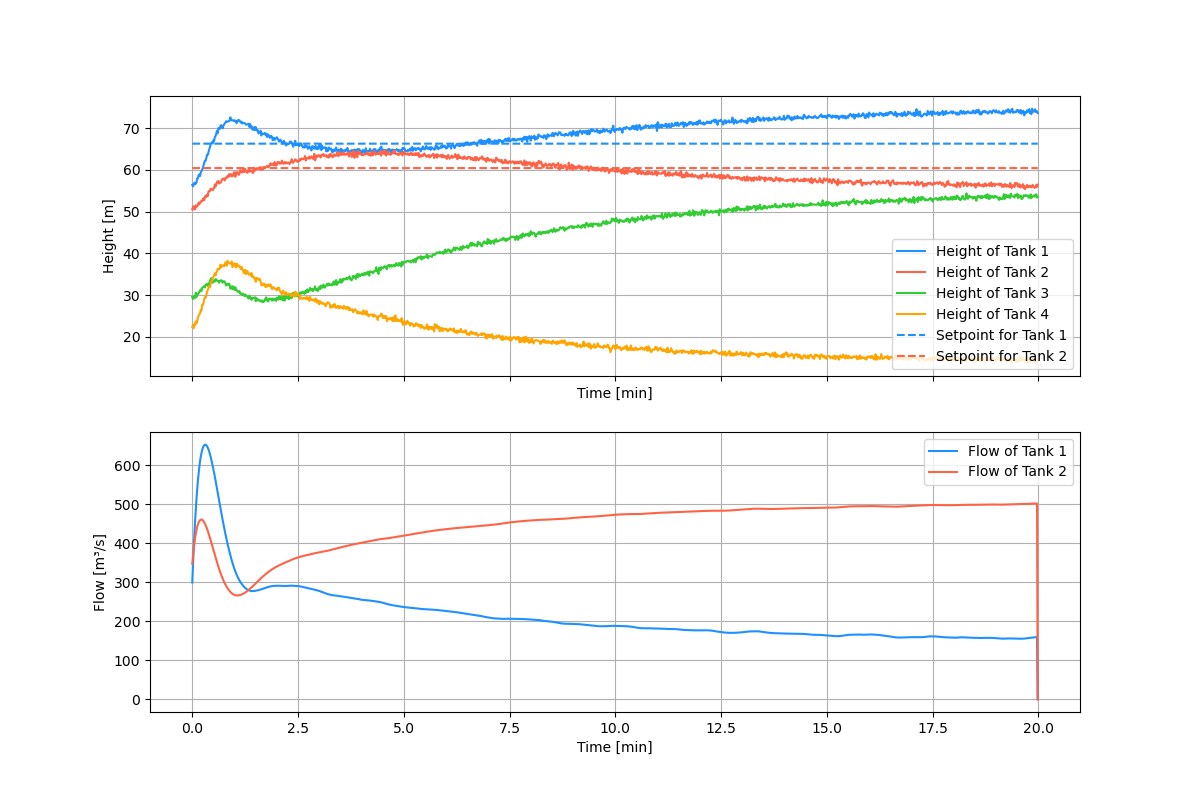
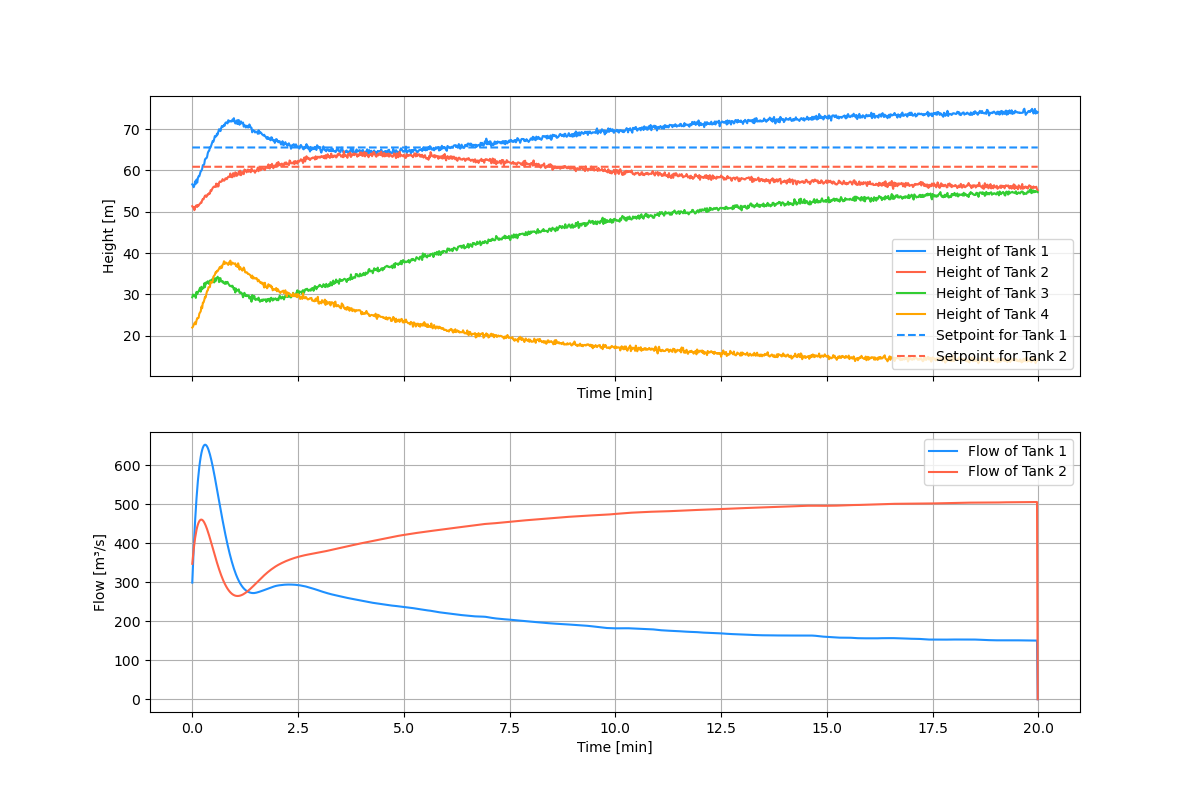
Small update P8-10
Ive don't really know what Ive updated to be honest

diff --git a/Problem_10_5.py b/Problem_10_5.py
@@ -48,19 +48,13 @@ if __name__ == "__main__":
     x0 = np.concatenate((x0, ds))
     xs = Model_Stochastic.GetSteadyState(x0, us)
     data_prob5 = np.load(r"Results\Problem5\Problem_5_estimates.npz")
-    Q = data_prob5["Q"]
+    Q = np.block([
+        [data_prob5["Q"], np.zeros((6, 2))],
+        [np.zeros((2, 6)), 0.01*np.eye(2)]
+    ])
 
     data = data_prob5
     Ad, Bd, Ed, C, Cz = Model_Stochastic.LinearizeDiscreteTime(xs, ds, delta_t)
-    print(Ad.shape)
-    print(Bd.shape)
-    print(Cz.shape)
-    
-
-    A = Ad[:-2, :-2]
-    B = Bd[:-2, :]
-    Cz = Cz[:, :-2]
-    E = Ad[:-2, -2:]
 
     u_op = np.array([250, 325])  # Operating point inputs
 
@@ -105,11 +99,11 @@ if __name__ == "__main__":
         hs=hs,
         U_bar=U_bar,
         R_bar=R_bar,
-        A=A, 
-        B=B, 
+        A=Ad, 
+        B=Bd, 
         C=Cz, 
         Q=Q,
-        E=E,
+        E=Ed,
         R=R[:2,:2],
         problem=problem, 
         Wz=Wz,
@@ -172,22 +166,22 @@ if __name__ == "__main__":
     
     axes[0].plot(t/60, x[0, :], label='Actual Tank 1', color='dodgerblue')
     axes[0].plot(t/60, x[1, :], label='Actual Tank 2', color='tomato')
-    
+
     axes[0].legend()
     axes[0].set_ylabel('mass [kg]')
     axes[0].grid(True)
     axes[0].set_title('System states')
-    
+
     axes[1].plot(t/60, predicted_y_mpc[:, 0] + hs[0], label='Predicted Output Tank 1', color='dodgerblue', ls='-.' )
     axes[1].plot(t/60, predicted_y_mpc[:, 1] + hs[1], label='Predicted Output Tank 2', color='tomato', ls='-.' )
-    
+
 
     axes[1].fill_between(t/60, predicted_y_mpc[:, 0] + hs[0] - 2*np.sqrt(predicted_Py[:, 0, 0]), predicted_y_mpc[:, 0] + hs[0] + 2*np.sqrt(predicted_Py[:, 0, 0]), color='dodgerblue', alpha=0.2)
     axes[1].fill_between(t/60, predicted_y_mpc[:, 1] + hs[1] - 2*np.sqrt(predicted_Py[:, 1, 1]), predicted_y_mpc[:, 1] + hs[1] + 2*np.sqrt(predicted_Py[:, 1, 1]), color='tomato', alpha=0.2)
-    
+
     axes[1].plot(t/60, h[0, :], label='Actual Tank 1', color='dodgerblue')
     axes[1].plot(t/60, h[1, :], label='Actual Tank 2', color='tomato')
-    
+
     axes[1].legend()
     axes[1].grid(True)
     axes[1].set_title('Height of the tanks')

diff --git a/Problem_8_5.py b/Problem_8_5.py
@@ -31,20 +31,13 @@ if __name__ == "__main__":
     x0 = np.concatenate((x0, ds))
     xs = Model_Stochastic.GetSteadyState(x0, us)
     data_prob5 = np.load(r"Results\Problem5\Problem_5_estimates.npz")
-    Q = data_prob5["Q"]
-    
+    Q = np.block([
+        [data_prob5["Q"], np.zeros((6, 2))],
+        [np.zeros((2, 6)), 0.01*np.eye(2)]
+    ])
 
     data = data_prob5
     Ad, Bd, Ed, C, Cz = Model_Stochastic.LinearizeDiscreteTime(xs, ds, delta_t)
-    print(Ad.shape)
-    print(Bd.shape)
-    print(Cz.shape)
-    
-
-    A = Ad[:-2, :-2]
-    B = Bd[:-2, :]
-    Cz = Cz[:, :-2]
-    E = Ad[:-2, -2:]
     
     good_goal = np.array([111.05, 100.0])  # Height of Tank 1 and 2
 
@@ -70,15 +63,15 @@ if __name__ == "__main__":
         hs=hs,
         U_bar=U_bar,
         R_bar=R_bar,
-        A=A,
-        B=B,
+        A=Ad,
+        B=Bd,
         C=Cz,
         Q=Q,
-        E = E,
+        E=Ed,
         R=R[:2,:2],
         problem=problem, 
         Wz=np.eye(2) * 2,      # Increased from 1: strong tracking priority
-        Wu=np.eye(2) * 1e-3,    # Decreased from 1e-1: allow more control effort
+        Wu=np.eye(2) * 0,    # Decreased from 1e-1: allow more control effort
         Wdu=np.eye(2) * 0.5,    # Decreased from 1: smoother but still responsive
     )
     
@@ -118,8 +111,6 @@ if __name__ == "__main__":
     predicted_Px = np.array(mpc_controller.predicted_Px)
     predicted_Py = np.array(mpc_controller.predicted_Py)
 
-    print(predicted_x_mpc[2,:])
-
     fig, axes = plt.subplots(2, 1, figsize=(12, 8), sharex=True)
     axes[0].plot(t/60, predicted_x_mpc[:, 0] + xs[0], label='Predicted Tank 1', color='dodgerblue', ls='-.' )
     axes[0].plot(t/60, predicted_x_mpc[:, 1] + xs[1], label='Predicted Tank 2', color='tomato', ls='-.' )
@@ -153,3 +144,5 @@ if __name__ == "__main__":
     
     fig.savefig(f'figures/Problem8/Problem_8_Heights_5_kalman.png')
     plt.close()
+
+    print(good_goal)

diff --git a/Problem_9_5.py b/Problem_9_5.py
@@ -51,7 +51,10 @@ if __name__ == "__main__":
     x0 = np.concatenate((x0, ds))
     xs = Model_Stochastic.GetSteadyState(x0, us)
     data_prob5 = np.load(r"Results\Problem5\Problem_5_estimates.npz")
-    Q = data_prob5["Q"]
+    Q = np.block([
+        [data_prob5["Q"], np.zeros((6, 2))],
+        [np.zeros((2, 6)), 0.01*np.eye(2)]
+    ])
 
     hs = Model_Stochastic.StateSensor(xs[:4])[:2]
     
@@ -59,15 +62,7 @@ if __name__ == "__main__":
 
     data = data_prob5
     Ad, Bd, Ed, C, Cz = Model_Stochastic.LinearizeDiscreteTime(xs, ds, delta_t)
-    print(Ad.shape)
-    print(Bd.shape)
-    print(Cz.shape)
-    
 
-    A = Ad[:-2, :-2]
-    B = Bd[:-2, :]
-    Cz = Cz[:, :-2]
-    E = Ad[:-2, -2:]
     # Set initial state and references based on problem type
 
     # For Problem 5: Use absolute values
@@ -87,11 +82,11 @@ if __name__ == "__main__":
         hs=hs,
         U_bar=U_bar,
         R_bar=R_bar,
-        A=A, 
-        B=B, 
+        A=Ad, 
+        B=Bd, 
         C=Cz, 
         Q=Q,
-        E=E,
+        E=Ed,
         R=R[:2,:2],
         problem=problem, 
         Wz=Wz,      # Increased from 1: strong tracking priority

diff --git a/Problem_8_4.py b/Problem_8_4.py
@@ -81,7 +81,7 @@ if __name__ == "__main__":
         hadd=hs,
         problem=problem, 
         Wz=np.eye(2) * 2,      # Increased from 1: strong tracking priority
-        Wu=np.eye(2) * 1e-3,    # Decreased from 1e-1: allow more control effort
+        Wu=np.eye(2) * 0,    # Decreased from 1e-1: allow more control effort
         Wdu=np.eye(2) * 0.5,    # Decreased from 1: smoother but still responsive
     )
 
